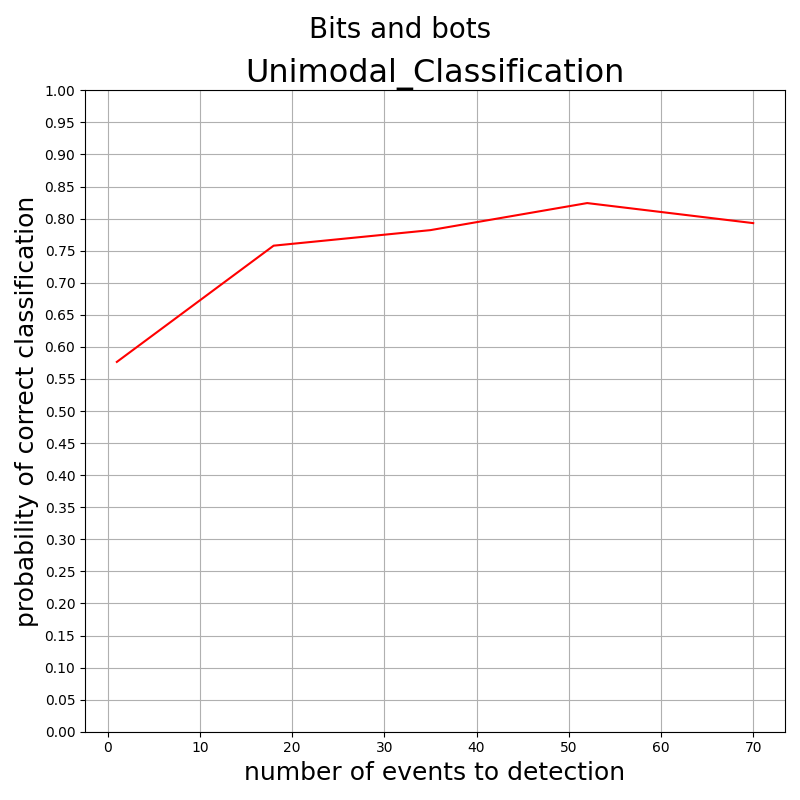
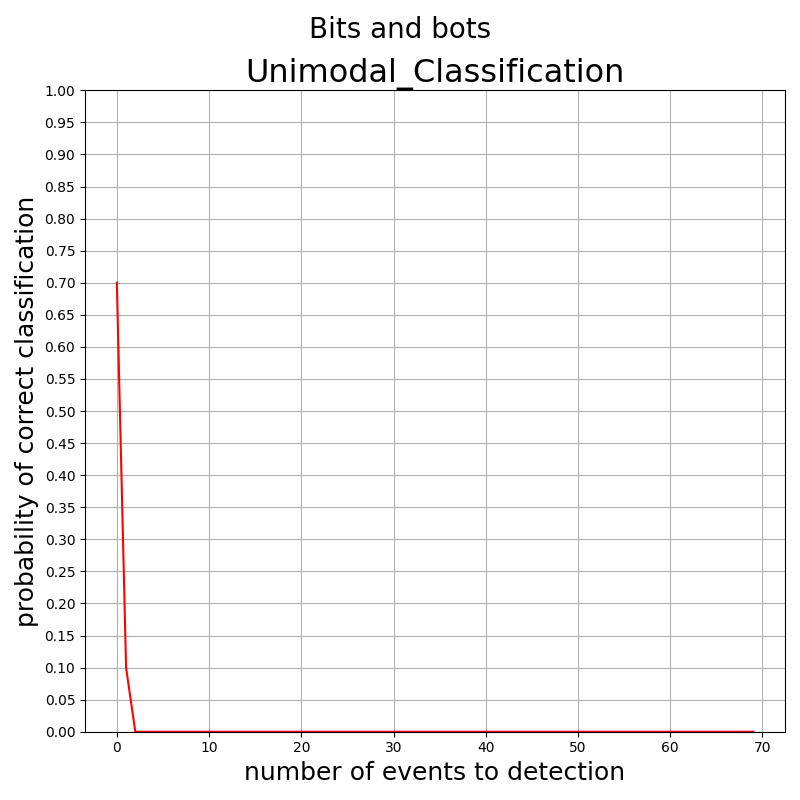
updata_cofidence in part A

diff --git a/main.py b/main.py
@@ -12,80 +12,111 @@ df_dict_all,df_dict_train,df_dict_eval = make_df_from_data_dir(train_data_ratio 
 # Use Training set for ISIT2024
 max_sample_len_train = 70
 min_sample_len_train = 1
-training_len  = 1000
-eval_len = 10
-batch_size = 128
-train_dataset = ISITDataset(df_dict_train,training_len=training_len*batch_size,
+
+max_sample_len_eval = 70  #*70
+training_len  = 100 #* 1000
+eval_len = 10*128
+bs = 128
+bs_eval = 1
+load_from_checkpoint = False
+ckpt_path = 'model.ckpt'
+train_dataset = ISITDataset(df_dict_train,training_len=training_len*bs,
                             min_sample_len=min_sample_len_train,
                             max_sample_len=max_sample_len_train)   
-eval_dataset  = ISITDataset(df_dict_eval,training_len=eval_len*batch_size,
-                            min_sample_len=max_sample_len_train,
-                            max_sample_len=max_sample_len_train)
-train_dataloader = DataLoader(train_dataset, batch_size=batch_size, shuffle=True)
-eval_dataloader = DataLoader(eval_dataset, batch_size=batch_size, shuffle=True)
+eval_dataset  = ISITDataset(df_dict_eval,training_len=eval_len*bs_eval,
+                            min_sample_len=max_sample_len_eval,
+                            max_sample_len=max_sample_len_eval)
+train_dataloader = DataLoader(train_dataset, batch_size=bs, shuffle=True)
+eval_dataloader = DataLoader(eval_dataset, batch_size=bs_eval, shuffle=True)
 idx = 0
 category = len(train_dataset.idx_2_name)  #5 #['hlisa_traces', 'gremlins', 'za_proxy', 'survey_desktop', 'random_mouse_with_sleep_bot']
 model = NeuralNetwork(max_len=max_sample_len_train,output_size=category).to(device)
 criterion = nn.CrossEntropyLoss()  # sigma [ y log(y_hat) ]
 learning_rate = 0.01
 optimizer = tc.optim.Adam(model.parameters(),lr=learning_rate)
-for batch in train_dataloader:
-  # for task A. Defense Task,  only the time_diff and position [x,y] elements recorded for each event can be used as input to classifier  
-  _, time_diff, pos_x, pos_y, _,terminate_idx, userType = batch
-  # userId, time_diff, x, y, eventName, userType = batch
-  #* pos_x.shape  [128,70] = (bs,n_of_events)
-  time_diff = time_diff.to(device)
-  pos_x = pos_x.to(device)
-  pos_y = pos_y.to(device)
-  terminate_idx =terminate_idx.to(device)
-  userType = userType.to(device)
-  y_target = userType   
-  y_hat = model(time_diff,pos_x,pos_y,terminate_idx)
-  loss = criterion(y_hat, y_target)
-  optimizer.zero_grad() 
-  loss.backward()
-  optimizer.step()
-  idx+=1
-  print(f"{idx}/{training_len}, term_idx {terminate_idx[0].item()}, {loss.item()=}")
-  assert min_sample_len_train<=terminate_idx[0].item()<=max_sample_len_train
-num_correct = 0
-num_samples = 0
-
-x_axis_len = 5
-n_to_detect_list = np.linspace(1,max_sample_len_train,x_axis_len).astype(int)  #[1,18,35,52,70]
-y_correct_list = np.zeros(x_axis_len)
+if load_from_checkpoint == False:
+  for batch in train_dataloader:
+    # for task A. Defense Task,  only the time_diff and position [x,y] elements recorded for each event can be used as input to classifier  
+    _, time_diff, pos_x, pos_y, _,terminate_idx, userType = batch
+    # userId, time_diff, x, y, eventName, userType = batch
+    #* pos_x.shape  [128,70] = (bs,n_of_events)
+    time_diff = time_diff.to(device)
+    pos_x = pos_x.to(device)
+    pos_y = pos_y.to(device)
+    terminate_idx =terminate_idx.to(device)
+    userType = userType.to(device)
+    y_target = userType   
+    y_hat = model(time_diff,pos_x,pos_y,terminate_idx)
+    loss = criterion(y_hat, y_target)
+    optimizer.zero_grad() 
+    loss.backward()
+    optimizer.step()
+    idx+=1
+    print(f"{idx}/{training_len}, term_idx {terminate_idx[0].item()}, {loss.item()=}")
+    assert min_sample_len_train<=terminate_idx[0].item()<=max_sample_len_train
+  tc.save({'state_dict':model.state_dict()},ckpt_path)
+else:
+  checkpoint = tc.load(ckpt_path)
+  model.load_state_dict(checkpoint['state_dict'])
+num_correct = 0; num_samples = 0
 test_i = 0
+conf_thres_hold = 0.5
+n_correct_dict = {}
+n_sample_dict = {}
 for batch in eval_dataloader:
   _, time_diff, pos_x, pos_y, _,terminate_idx, userType = batch
   ##time_diff() pos_x (128,70)=(bs,n_of_events)
   time_diff = time_diff.to(device)
-  pos_x = pos_x.to(device)
-  pos_y = pos_y.to(device)
-  terminate_idx =terminate_idx.to(device)
+  pos_x = pos_x.to(device); pos_y = pos_y.to(device);
+  assert terminate_idx[0]==max_sample_len_eval
   userType = userType.to(device)
   y_target = userType   
-  assert tc.all(terminate_idx == max_sample_len_train).cpu()
-  for i in range(x_axis_len):
-    pos_x2 = pos_x.clone()
-    pos_y2 = pos_y.clone()
-    time_diff2 =time_diff.clone()
-    stop_idx = n_to_detect_list[i]
-    if i != (x_axis_len-1):
-      pos_x2[:,stop_idx:] = 0 
-      pos_y2[:,stop_idx:] = 0 
-      time_diff2[:,stop_idx:] = 0 
+  # assert tc.all(terminate_idx == max_sample_len_eval).cpu()
+  pos_x2 = tc.zeros_like(pos_x)  
+  pos_y2 = tc.zeros_like(pos_y)  
+  time_diff2 = tc.zeros_like(time_diff)  
+  ii = 0   
+  max_conf = 0
+  while ii<max_sample_len_eval and max_conf<conf_thres_hold:
+    #**  request more data if the confi
+    pos_x2[0,ii] = pos_x[0,ii]
+    pos_y2[0,ii] = pos_y[0,ii]
+    time_diff2[0,ii] = time_diff[0,ii] 
     y_hat = model(time_diff2,pos_x2,pos_y2,terminate_idx)
-    _, predictions = y_hat.max(1)
-    y_correct_list[i] += (predictions == y_target).sum()
-  num_correct += (predictions == y_target).sum()
+    conf_y_hat = tc.softmax(y_hat,dim=1)
+    max_conf = conf_y_hat.max(dim=1)[0]
+    ii += 1   
+    # breakpoint()
+    # print(ii,"max_conf",max_conf)
+  # breakpoint()
+  _, predictions = y_hat.max(1)
+  ii = ii-1
+  if not (ii in n_correct_dict):
+    n_correct_dict[ii] = 0.
+  if not (ii in n_sample_dict):
+    n_sample_dict[ii] = 0.
+  n_correct_dict[ii] +=  (predictions == y_target).sum().cpu().item() 
+  n_sample_dict[ii] +=  predictions.size(0)
+  num_correct += (predictions == y_target).sum();
   num_samples += predictions.size(0)
   test_i+=1
   print(f"{test_i}/{eval_len}___")
-assert num_samples == test_i * batch_size
-y_correct_list /= test_i * batch_size
+assert num_samples == test_i * bs_eval
+n_correct_dict = dict(sorted(n_correct_dict.items()))
+n_sample_dict = dict(sorted(n_sample_dict.items()))
+assert np.all([*n_correct_dict]==[*n_sample_dict])
+for k in n_correct_dict.keys():
+  n_correct_dict[k]/=n_sample_dict[k] * bs_eval
 print(f"Accuracy on test set: {num_correct/num_samples*100:.2f}")
-print(f"{y_correct_list*100}")
+aaa = [*n_sample_dict.values()]
 
+least_sample_num = 20
+n_sample_dict_eval = n_sample_dict.copy()
+n_correct_dict_eval = n_correct_dict.copy()
+for k in n_correct_dict.keys():
+  if n_sample_dict[k] < least_sample_num: 
+     del n_sample_dict_eval[k]
+     del n_correct_dict_eval[k]
 fig, ax = plt.subplots(1,1,figsize=(8,8))
 fig.suptitle('Bits and bots', fontsize=20)
 title = "Unimodal_Classification"
@@ -95,11 +126,26 @@ ax.set_xlabel('number of events to detection',fontsize =18)
 ax.set_ylim([0, 1])
 plt.yticks(np.arange(0, 1+0.05, 0.05))
 plt.grid(True)
-ax.plot(n_to_detect_list,y_correct_list,'r',label="relu")
-
-
+ax.plot( [*n_correct_dict_eval],[*n_correct_dict_eval.values()],'r',label="accuracy")
 plt.tight_layout() 
 plt.savefig(f"result_{title}_{training_len=}.png")
 plt.show()
+fig, ax = plt.subplots(1,1,figsize=(8,8))
+fig.suptitle('Bits and bots', fontsize=20)
+title = "Unimodal_Classification"
+ax.set_title(title,fontsize=23)
+ax.set_ylabel('length for classification',fontsize =18)
+ax.set_xlabel('number of events to detection',fontsize =18)
+ax.plot( [*n_sample_dict],[*n_sample_dict.values()])
+plt.tight_layout() 
+plt.savefig(f"result_{title}_{training_len=}_sample_len.png")
+plt.show()
+detect_lengths = np.array([*n_sample_dict])   
+detect_length_num = np.array([*n_sample_dict.values()])
+detect_length_rate = detect_length_num/np.sum(detect_length_num)  
+avg_length = detect_lengths@detect_length_rate.T
+print("avg_length",avg_length)
 breakpoint()
+
+
 

diff --git a/archive/main3.py b/archive/main3.py
@@ -1,0 +1,107 @@
+import torch as tc
+import matplotlib.pyplot as plt
+from torch import nn
+from torch.utils.data import DataLoader
+import numpy as np
+from data_set_.data_loader_ import ISITDataset,make_df_from_data_dir
+from nets.nn_net import NeuralNetwork
+device = tc.device("cuda" if tc.cuda.is_available() else "cpu")
+
+train_data_ratio = 0.8
+df_dict_all,df_dict_train,df_dict_eval = make_df_from_data_dir(train_data_ratio = train_data_ratio)
+# Use Training set for ISIT2024
+max_sample_len_train = 70
+min_sample_len_train = 1
+training_len  = 1000
+eval_len = 10
+batch_size = 128
+train_dataset = ISITDataset(df_dict_train,training_len=training_len*batch_size,
+                            min_sample_len=min_sample_len_train,
+                            max_sample_len=max_sample_len_train)   
+eval_dataset  = ISITDataset(df_dict_eval,training_len=eval_len*batch_size,
+                            min_sample_len=max_sample_len_train,
+                            max_sample_len=max_sample_len_train)
+train_dataloader = DataLoader(train_dataset, batch_size=batch_size, shuffle=True)
+eval_dataloader = DataLoader(eval_dataset, batch_size=batch_size, shuffle=True)
+idx = 0
+category = len(train_dataset.idx_2_name)  #5 #['hlisa_traces', 'gremlins', 'za_proxy', 'survey_desktop', 'random_mouse_with_sleep_bot']
+model = NeuralNetwork(max_len=max_sample_len_train,output_size=category).to(device)
+criterion = nn.CrossEntropyLoss()  # sigma [ y log(y_hat) ]
+learning_rate = 0.01
+optimizer = tc.optim.Adam(model.parameters(),lr=learning_rate)
+for batch in train_dataloader:
+  # for task A. Defense Task,  only the time_diff and position [x,y] elements recorded for each event can be used as input to classifier  
+  _, time_diff, pos_x, pos_y, _,terminate_idx, userType = batch
+  # userId, time_diff, x, y, eventName, userType = batch
+  #* pos_x.shape  [128,70] = (bs,n_of_events)
+  time_diff = time_diff.to(device)
+  pos_x = pos_x.to(device)
+  pos_y = pos_y.to(device)
+  terminate_idx =terminate_idx.to(device)
+  userType = userType.to(device)
+  y_target = userType   
+  y_hat = model(time_diff,pos_x,pos_y,terminate_idx)
+  loss = criterion(y_hat, y_target)
+  optimizer.zero_grad() 
+  loss.backward()
+  optimizer.step()
+  idx+=1
+  print(f"{idx}/{training_len}, term_idx {terminate_idx[0].item()}, {loss.item()=}")
+  assert min_sample_len_train<=terminate_idx[0].item()<=max_sample_len_train
+num_correct = 0
+num_samples = 0
+
+x_axis_len = 5
+n_to_detect_list = np.linspace(1,max_sample_len_train,x_axis_len).astype(int)  #[1,18,35,52,70]
+y_correct_list = np.zeros(x_axis_len)
+test_i = 0
+for batch in eval_dataloader:
+  _, time_diff, pos_x, pos_y, _,terminate_idx, userType = batch
+  ##time_diff() pos_x (128,70)=(bs,n_of_events)
+  time_diff = time_diff.to(device)
+  pos_x = pos_x.to(device)
+  pos_y = pos_y.to(device)
+  terminate_idx =terminate_idx.to(device)
+  userType = userType.to(device)
+  y_target = userType   
+  assert tc.all(terminate_idx == max_sample_len_train).cpu()
+  for i in range(x_axis_len):
+    pos_x2 = pos_x.clone()
+    pos_y2 = pos_y.clone()
+    time_diff2 =time_diff.clone()
+    stop_idx = n_to_detect_list[i]
+    if i != (x_axis_len-1):
+      pos_x2[:,stop_idx:] = 0 
+      pos_y2[:,stop_idx:] = 0 
+      time_diff2[:,stop_idx:] = 0 
+    y_hat = model(time_diff2,pos_x2,pos_y2,terminate_idx)
+    conf_y_hat = tc.softmax(y_hat,dim=1)
+    max_conf = conf_y_hat.max(dim=1)[0]
+    _, predictions = y_hat.max(1)
+    y_correct_list[i] += (predictions == y_target).sum()
+  num_correct += (predictions == y_target).sum()
+  num_samples += predictions.size(0)
+  test_i+=1
+  print(f"{test_i}/{eval_len}___")
+assert num_samples == test_i * batch_size
+y_correct_list /= test_i * batch_size
+print(f"Accuracy on test set: {num_correct/num_samples*100:.2f}")
+print(f"{y_correct_list*100}")
+
+fig, ax = plt.subplots(1,1,figsize=(8,8))
+fig.suptitle('Bits and bots', fontsize=20)
+title = "Unimodal_Classification"
+ax.set_title(title,fontsize=23)
+ax.set_ylabel('probability of correct classification',fontsize =18)
+ax.set_xlabel('number of events to detection',fontsize =18)
+ax.set_ylim([0, 1])
+plt.yticks(np.arange(0, 1+0.05, 0.05))
+plt.grid(True)
+ax.plot(n_to_detect_list,y_correct_list,'r',label="relu")
+
+
+plt.tight_layout() 
+plt.savefig(f"result_{title}_{training_len=}.png")
+plt.show()
+breakpoint()
+
